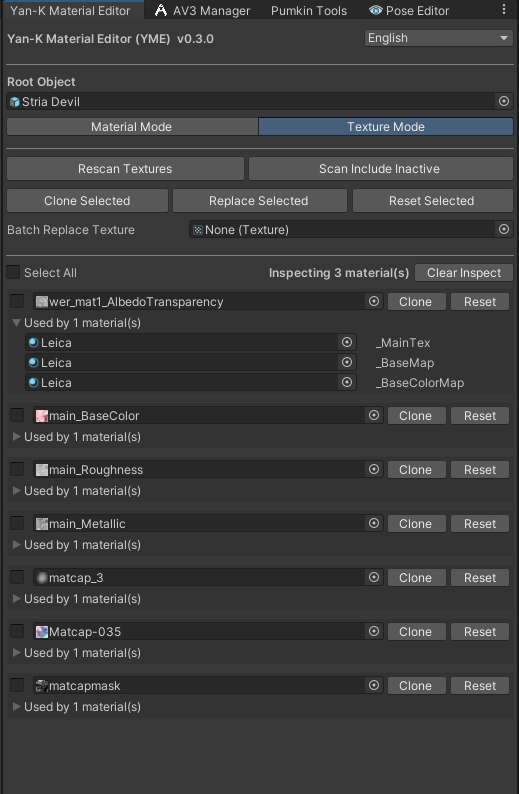
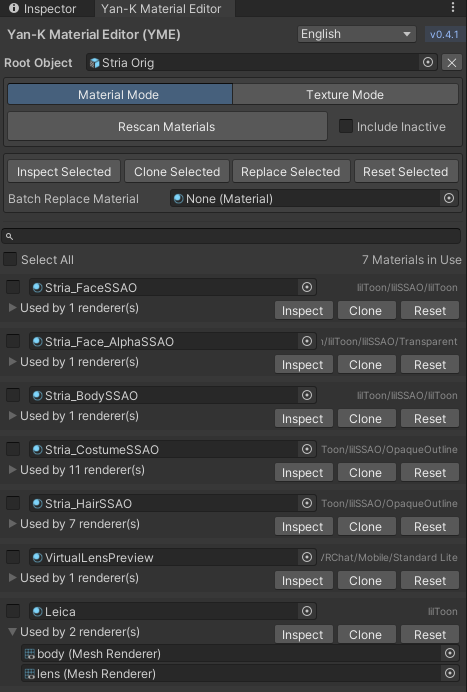
0.4.1 fix clone

Changed region(s): [[0.0, 0.0, 1.0, 1.0], [0.5096, 0.2731, 0.9893, 0.9711]]

diff --git a/Packages/com.yank.material-editor/Editor/MaterialEditorTool.cs b/Packages/com.yank.material-editor/Editor/MaterialEditorTool.cs
@@ -8,7 +8,7 @@ namespace YanK
 {
 	public partial class MaterialEditorTool : EditorWindow
 	{
-		private const string Version = "v0.4.0";
+		private const string Version = "v0.4.1";
 
 		private UnityEngine.Object rootObject;
 		private Vector2 scrollPosition;
@@ -237,6 +237,9 @@ namespace YanK
 			string dir = Path.GetDirectoryName(originalPath);
 			string baseName = Path.GetFileNameWithoutExtension(originalPath);
 			string ext = Path.GetExtension(originalPath);
+
+			// Strip existing (YMEClone N) suffix to avoid stacking
+			baseName = System.Text.RegularExpressions.Regex.Replace(baseName, @"\s*\(YMEClone \d+\)$", "");
 
 			int n = 1;
 			string newPath;

diff --git a/README.md b/README.md
@@ -48,6 +48,10 @@ Added Total Number for Materials and Textures.
 
 UX Overhaul.
 
+### v0.4.1 - 2026/04/10
+
+Fixed suffix in clone.
+
 ## Credit
 
 - Yan-K ([@YanKMW](https://github.com/Yan-K))
